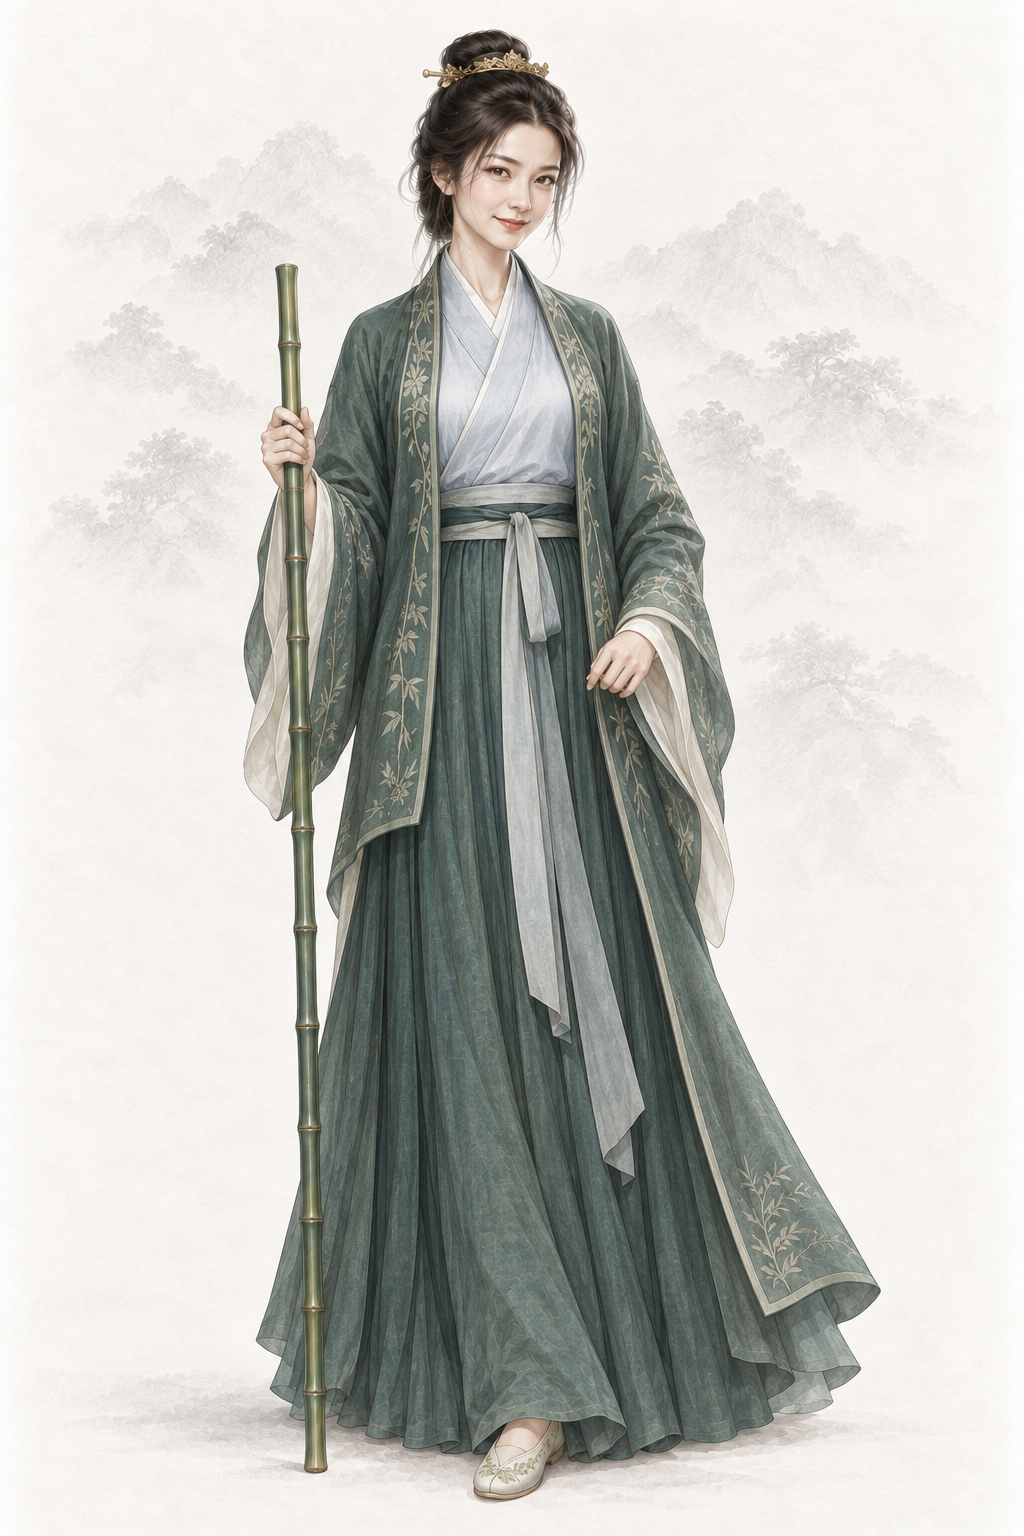
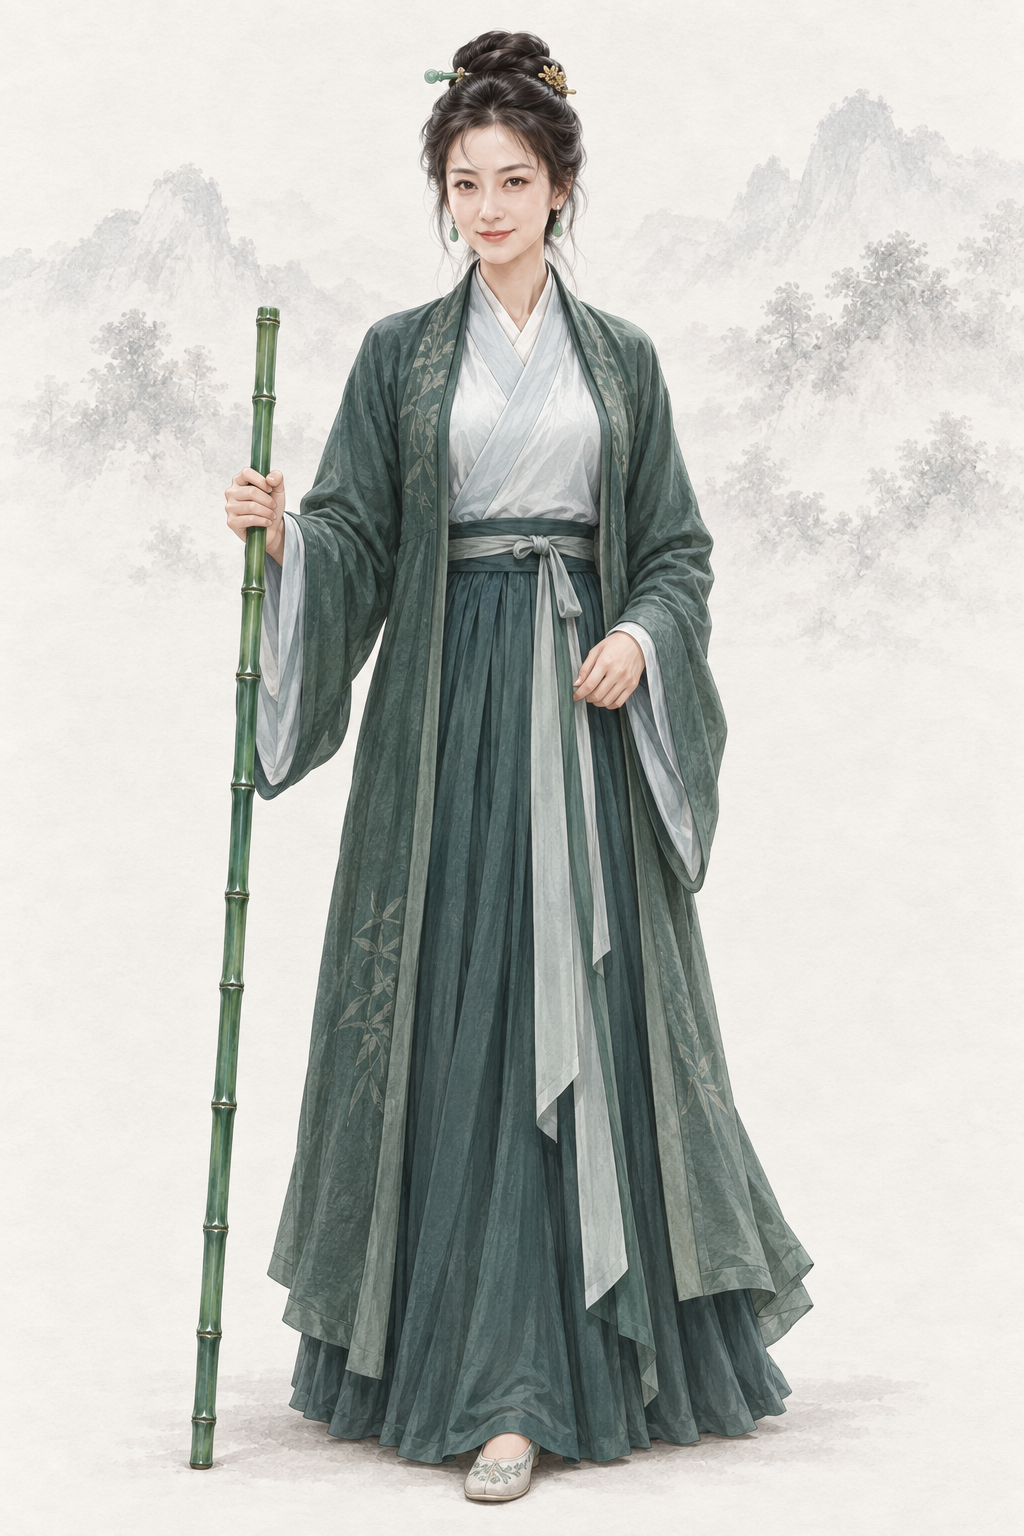
assets(character): por_npc_huangrong__ch03_prime_base 黄蓉（codex，AR-32 经典版）
上传本轮新出的 por_npc_huangrong__ch02_youth_bangzhu_base 作身份参考重出。

diff --git a/assets/default/prompts/characters/ch03-shendiao/npc_huangrong.md b/assets/default/prompts/characters/ch03-shendiao/npc_huangrong.md
@@ -15,16 +15,42 @@ references:
   use: 第二图是用户王语嫣水墨图，仅取暖浅灰不透明纸底、极淡低对比水墨远山、薄雾和留白。已实际查看；完全忽略图中人物脸、年龄、体型、歪头、发髻、服饰、花饰和飘带。不复制亭台、花枝等清晰场景，不让水墨和纸纹侵入人物实体。
 status: redo
 realism_revision: user_identity_pose_20261001
-redo_reason: "作者要求两书黄蓉同一张脸：现图源自 1995 版另一位演员，与射雕黄蓉不像；改为上传新出的射雕黄蓉作身份参考，自然长到三十七八岁"
+redo_reason: "AR-32：射雕黄蓉按 1994 朱茵版剧照重出，神雕郭夫人随同一张脸重出（10-02，7 号出图员）"
 reference_upload:
 - assets/default/character/female/ch02/por_npc_huangrong__ch02_youth_bangzhu_base.png
 - assets/default/baseline/character/female/ref_npc_wangyuyan__ch01_base01.png
+- assets/default/baseline/character/female/ref_npc_xiaolongnv__ch03_base01.png
 codex_prompt_rev: 2026-10-02
+classic_ref:
+  version: 1994 年 TVB 张智霖、朱茵版《射雕英雄传》（黄蓉取朱茵版气质，AR-30 / AR-32），经由本轮新出的射雕黄蓉立绘传递，不直接上传剧照
+  via: npc_huangrong.md（por_npc_huangrong__ch02_youth_bangzhu_base 本轮新图）
+  stills: []
 ---
 
 # 黄蓉 · 人物写实修正
 
 ## Gemini 提示词
+
+> 2026-10-02 AR-32（7 号出图员，codex exec · image_gen 出图）：上传本轮新出的 por_npc_huangrong__ch02_youth_bangzhu_base（第 1 张，缩到长边 1024 的 JPEG）作身份参考，两张同性别缩小版基线放在最后；同一张脸自然长大到近四十岁。旧提示词保留在后文作历史。
+
+```text
+生成一张 2:3 竖幅全身人物立绘：单人、单一视角、完整全身——头顶、双手、双脚和手中器物的两端都在画面内，四周留出自然空白；人物站姿自然，身体基本朝向正面，头部端正（不歪头、不仰不俯），镜头平视。
+【画风】写实手绘古风人物插画，与本项目写实武侠角色立绘同一画风，像功力深厚的画师用细腻笔触画出的真实美人。手绘插画质感，不是 CG 渲染：不要过度光滑的皮肤、完美对称的五官、塑料高光、过度锐利的发丝；保留自然的笔触和细微不完美。肌肤细腻自然，看得见极细的肤理和自然的左右不对称，不磨皮、不油亮、不打粉；头发是一缕缕自然的发丝和少量碎发；布料看得出经纬纹理、厚薄和自然垂坠的褶皱，干净完整；整体设色低饱和、雅致；柔和的自然光从左上方照来，明暗过渡自然，不打舞台光、轮廓光或美颜柔光。不是照片，不是三维渲染，不是动漫或游戏 CG，也不是油画（没有厚涂笔触和画布纹理）。
+【背景】不透明的暖浅灰色纸底，只在远处有极淡的水墨远山和薄雾，大面积留白；人物与背景明暗分明、轮廓边缘干净完整（后续要自动抠图），水墨和纸纹只在背景里，不侵入人物和衣服；脚下只有很淡的一点接触阴影。
+【人物】黄蓉（郭夫人），《神雕侠侣》南宋，郭靖之妻、丐帮帮主、襄阳守城的智囊；大胜关英雄大会交棒之前的中年阶段。聪慧干练、机变百出，仍保有少女时的俏皮。
+【身份参考】随提示词上传的第 1 张图是射雕时期的黄蓉本人（本项目新版立绘）：这是同一个人约十八年后的样子——保留同一张脸的五官特征（柔和的鹅蛋脸、灵动的大眼睛、弯弯的细眉、小巧挺直的鼻梁、上翘的嘴角），但要明显长成近四十岁的中年妇人，不要换成另一个人，也不要照搬参考图的少女年龄；不要照搬图中的少女衣饰、发式和姿势。
+【年龄与体态】将近四十岁的中年妇人（郭夫人，两个女儿的母亲；大女儿都快二十了），身形匀称，比少女时丰润一些，举止沉稳从容。成年女性的五官骨相与身体比例（约 7 头身），衣着完整端庄、不透明、不暴露、不性感化。
+【经典造型】延续射雕时那一版黄蓉的灵动气质：中年郭夫人——端庄的妇人高髻、雍容大方的帮主夫人装束，眉眼间依旧灵动，透着运筹帷幄的干练与从容。
+【面容】同一张脸长大了十七八年，一看就是将近四十岁的中年妇人、不是少女也不是二十多岁的少妇：面颊更丰满、下颌线略松，眼角有清楚的鱼尾纹，额头有一两道浅纹，法令纹清楚可见，眼皮略沉，眉眼间是成熟、沉稳与干练，眼神依旧灵动；嘴角保留俏皮狡黠的笑意；肌肤白皙而有成熟的质感，妆容清淡。风韵犹存、明艳干练的美丽妇人。
+【发式】乌发全部梳起、挽成端庄饱满的妇人高髻（不留披在肩后的长发，也没有刘海和细辫），插一支碧玉簪和一支小金簪。
+【服饰】深青绿色直领对襟长褙子（与当年的翠绿镶边呼应，更沉稳），月白交领右衽内衫，深青长裙，素色布带，平底鞋；整体是庄重的主妇装扮。
+【道具】右手握一根碧绿通透的竹棒（丐帮打狗棒，此时尚未交棒），棒梢点地。
+【姿态与神情】从容站立，一手持棒、一手轻提衣袖；神情干练，眼神里有算计全局的笃定和一丝笑意。
+【不要】画面里不要任何文字、题款、印章、签名、水印、边框、分格或多视图；不要第二个人；不要幼态（童颜、娃娃脸、婴儿肥、儿童或少年身材、大头小身）；不要塑料感皮肤、磨皮美颜、网红脸（尖下巴大眼高鼻的模板脸）、过度对称、浓妆、偶像式打光、蜡像感；不要照片质感、照片修图感、三维渲染或动漫大眼；不要直接复制剧照的画面；不要歪头、斜镜头；不要多指、缺指（设定的伤残除外）、手与器物粘连或悬空；汉式交领必须右衽（穿着者的左襟压在右襟上），不要左衽（设定为少数民族服制的除外），不要水平镜像；不要现代物品、发光特效、法阵或能量光。不要换成另一张脸；不要少女的脸、少女的神态和身段（必须明显比参考图年长）；不要老态或发福；不要少女发式、刘海、细辫和衣饰；不要孕态。
+【画风基线】随提示词上传的参考图里，最后两张是本项目的立绘画风基线：只参考它们的画风、用色、光线、质感和暖浅灰纸底加淡水墨的背景处理，整体画风必须与它们一致——精细写实的数字手绘插画，不是油画，不要厚涂笔触和画布纹理。基线图只取画风、光线、质感和背景处理，不取长相：不要照搬基线图里人物的长相、年龄、发型、服饰和姿势。
+```
+
+## 上一版 Gemini 提示词（AR-32 改写前，历史，不再用于出图）
 
 > 2026-10-02 AR-31 改写（1 号出图员，codex exec · image_gen 出图）：重要人物借鉴经典影视造型，只写成文字——不写演员名、不上传剧照、原创面孔；主角和美人画得好看，去 AI 味，禁止幼态。出图时上传两张同性别基线立绘作画风参考（放在最后）；第 1 张为身份参考（por_npc_huangrong__ch02_youth_bangzhu_base.png）。审核组原稿保留在下一节作历史。
 
